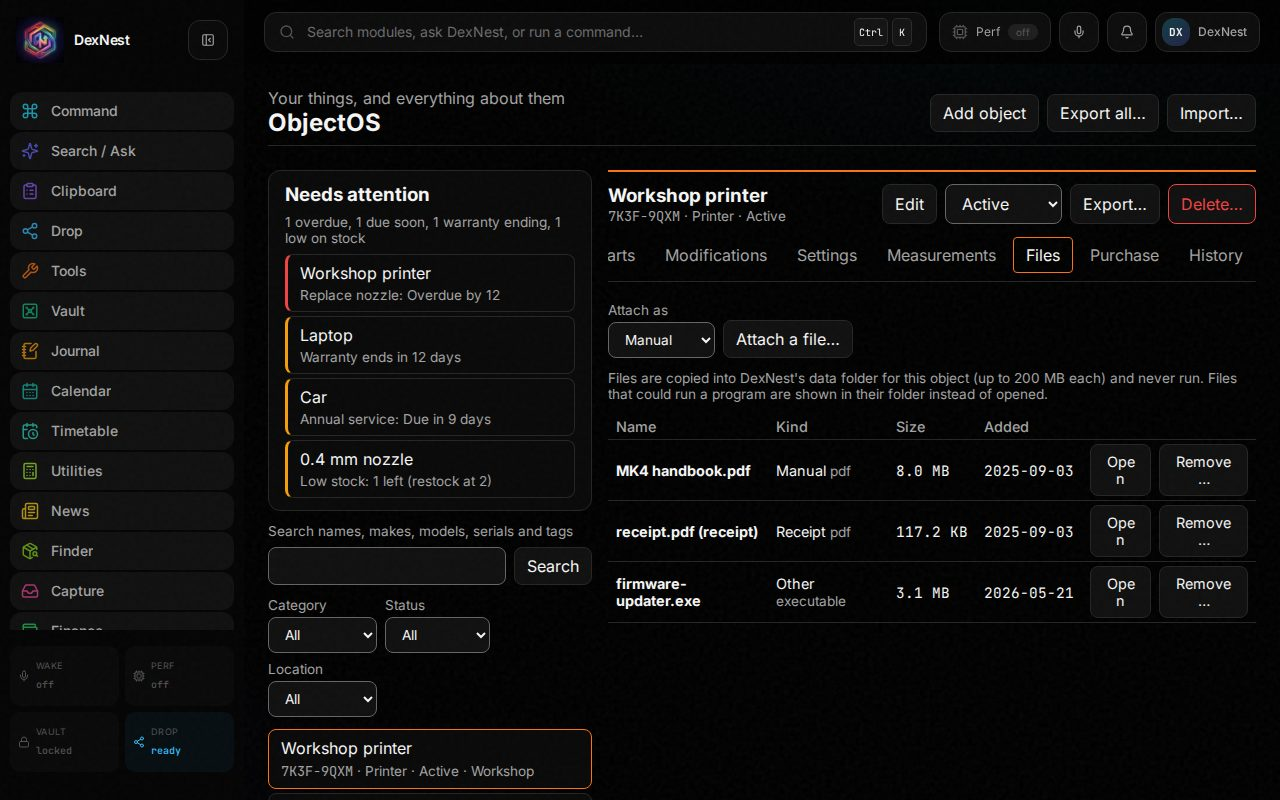
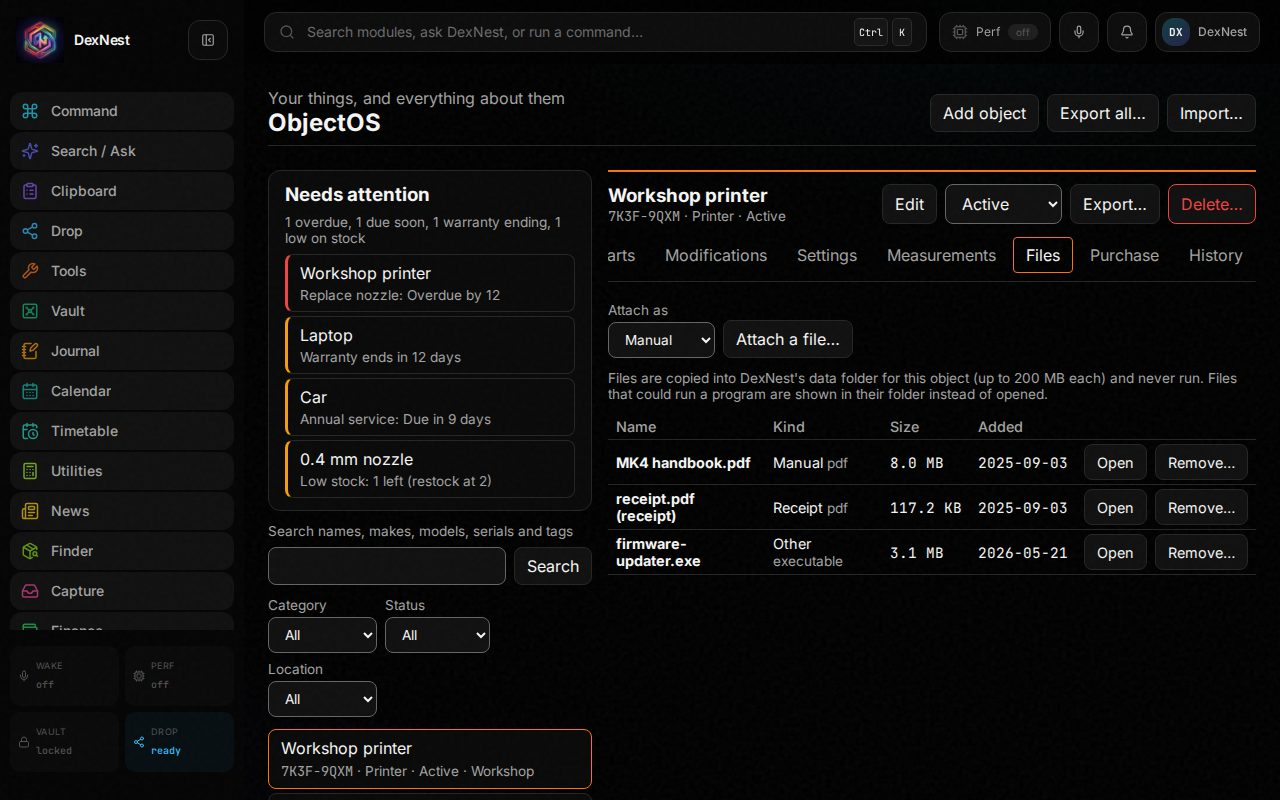
UI audit: record the fixes per branch and what is still open
Claude-Session: https://claude.ai/code/session_01JwfYoPbB23335zr2t8rkt3

Changed region(s): [[0.4688, 0.5312, 0.9688, 0.7812]]

diff --git a/docs/ui-audit/REPORT.md b/docs/ui-audit/REPORT.md
@@ -1,31 +1,81 @@
 # DexNest UI audit - new module views
 
-> **Update - fixed so far** (branch `cloud/ui-fixes`, based on `main`, commit
-> `548f485`; merged into this branch for the screenshots in
-> `screenshots/after-fixes/`):
-> - **X1 sidebar accent** - tints are built with `color-mix()` (`accentTint()`
->   in `lib/moduleMeta.ts`) for the sidebar and the three other module-accent
->   tints (pinned actions, pins, Deck catalogue). Every new module's active
->   entry now shows its tint, border and glow:
->   `after-fixes/sidebar-object-1280x800.jpg` (before:
->   `sidebar-object-1280x800.jpg`), and the same for ghost, rpg and skills.
-> - **X7 checkbox width** - the global rule now applies to
->   `input:where(:not([type="checkbox"], [type="radio"]))`; specificity is
->   unchanged, so classes still win. Reality RPG's quest form:
->   `after-fixes/rpg-tab-quests-1280x800.jpg` (before:
->   `rpg-tab-quests-1280x800.jpg`).
-> - **No change to existing views**: Command, Tools, Calendar's sidebar entry
->   and four Settings sections (89 existing checkboxes live in Settings and
->   elsewhere) were shot before and after; no pixel differs by more than 11
->   of 255 levels (JPEG noise and the 7% vs 7.06% tint rounding). After
->   shots: `after-fixes/existing-*`.
-> - Tests: `apps/desktop/test/shellStyle.test.mjs` (both mutations - a hex
->   suffix back in the sidebar, checkboxes back in the global rule - fail it);
->   desktop 168 pass on `main` + the fix.
+> **Update - fixed so far.** Every fix is on its own branch, merged into this
+> one for the screenshots in `screenshots/after-fixes/` (same names as the
+> "before" shots in `screenshots/`). Merged tree: typecheck clean, desktop
+> tests 328 pass.
+>
+> **App-wide** (`cloud/ui-fixes`, based on `main`; `548f485`, `30c3bee`):
+> - **X1 sidebar accent** - tints built with `color-mix()` (`accentTint()` in
+>   `lib/moduleMeta.ts`) for the sidebar, pinned actions, pins and the Deck
+>   catalogue. `after-fixes/sidebar-object-*` (and ghost, rpg, skills).
+> - **X7 checkbox width** - the global input rule skips checkboxes and radios
+>   (`:where()`, so specificity is unchanged). `after-fixes/rpg-tab-quests-*`.
+> - **X3 fonts** - Inter and JetBrains Mono (variable woff2, latin and
+>   latin-ext, OFL licences alongside) ship in `packages/shared-ui/fonts/`,
+>   declared in `shared-ui/src/fonts.css` and loaded before `tokens.css`. Local
+>   files only: no CDN, CSP unchanged. Every after shot renders in Inter.
+> - **X4 view error boundary** - `components/ViewErrorBoundary.tsx` wraps the
+>   active view, keyed by view, so switching views resets it. The sidebar stays;
+>   the view shows "<View> stopped working", the message, "Try again" and "Go
+>   to Command". Errors go to the local console only.
+>   `after-fixes/existing-autopilot-*` (before: a black window).
+> - **X9 control outlines and focus** - new tokens `--border-strong`
+>   (`#666666`, 3.45:1 on surface) for inputs, selects and textareas, and
+>   `--focus-outline` (solid accent) replacing the 2.3:1 `--focus-ring`
+>   outlines in `styles.css`.
+> - Tests: `test/shellStyle.test.mjs` (6), `test/viewErrorBoundary.test.mjs`
+>   (2). Existing views were re-shot (`after-fixes/existing-*`); only the font
+>   and outline changes show.
+>
+> **ObjectOS** (`cloud/object-os`; `e3accaf`, `46e6674`):
+> - "Needs attention" shows the 5 most urgent, then "Show all N"
+>   (`after-fixes/object-large-*`).
+> - Status is an `aria-label`led select, so the header buttons keep one height;
+>   the nine tabs stay on one line and scroll sideways.
+> - Delete confirmation is a modal (focus trapped, Escape, focus returned to
+>   the button that opened it) - `after-fixes/object-confirm-delete-*`.
+> - Tables: actions side by side and vertically centred; dates, sizes and
+>   button labels never break (`after-fixes/object-tab-files-*`).
+> - Empty state has "Add your first object" and "Import an export..."; the
+>   retry button is normal width; Name is marked "(required)".
+>
+> **GhostOS** (`cloud/ghost-os`; `697f19d`):
+> - Links are `--text` with an accent underline (no 4.4:1 accent text).
+> - Connection types read "related to", "worked on".
+> - Edit and Forget sit in the detail header.
+> - The type filter is one row of `aria-pressed` chips; counts are shown.
+> - Only the clicked timeline row is selected; the entry's other rows get a
+>   subtle marker.
+> - Empty state has "Add an entry" and "Open Sources"; normal-width retry.
+>
+> **Reality RPG** (`cloud/reality-rpg`; `b45361e`):
+> - Deleting a rule and abandoning a quest ask first (modal confirm).
+> - Stats are a grid of cards with a bar relative to the top stat.
+> - History rows lead with the rule name; the event source is small print.
+> - Rules read as a sentence ("+5 Craft each time, at most 20 a day") with ids
+>   as technical meta.
+> - Refresh is hidden while off; solid focus outline; normal-width retry.
+>
+> **Skill Constellation** (`claude/admiring-babbage-kbw2ew`; `376fda3`):
+> - At most 15 labels (strongest first) plus the hovered, focused or selected
+>   star - `after-fixes/skills-large-*`. Hidden stars say ", hidden" in their
+>   accessible name.
+> - Detail stats one per row, values unbroken; "1 repository".
+> - "Build once" while off; solid focus outline; normal-width retry.
+>
+> **Still open** (needs the shared kit, step 5 below): X2 two visual
+> generations, X5 tab styles, X6 skeleton loading and shared state layouts, X8
+> header spacing, X10 custom selects and date inputs; category marks and a list
+> view for Skill Constellation; ObjectOS maintenance layout and facts grid;
+> GhostOS per-row action column; the coverage gaps (step 7) and the DI and
+> Standup views (step 8). Fonts and outlines need a Windows check in the real
+> Electron window.
 
 Branch `cloud/ui-audit` = `main` + Skill Constellation (`claude/admiring-babbage-kbw2ew`)
 + Reality RPG (`cloud/reality-rpg`) + GhostOS (`cloud/ghost-os`) + ObjectOS
-(`cloud/object-os`). **Report only: no module code was changed.**
+(`cloud/object-os`). The audit itself changed no module code; the fixes above
+were made afterwards on their own branches.
 
 ## How this was done
 
@@ -70,6 +120,11 @@ Branch `cloud/ui-audit` = `main` + Skill Constellation (`claude/admiring-babbage
 | Reality RPG | Needs work | Needs work | Needs work | Needs work |
 | GhostOS | Needs work | Needs work | Needs work | Good |
 | ObjectOS | Needs work | Needs work | Good | Needs work |
+
+After the fixes: Accessibility is Good for all four (solid focus outlines,
+3:1 control outlines, modal confirms, readable links, culled labels). Polish
+moves to Good-with-gaps (see "Still open" above). Consistency stays Needs work
+until the shared kit lands, and Coverage is unchanged (no features were added).
 
 All four follow the rules (tokens only, Inter/JetBrains Mono through
 `--font-ui`/`--font-tech`, dark theme, labelled controls, loading/empty/error
@@ -269,18 +324,19 @@ token-only set would replace both:
 
 1. ~~**Sidebar active state** (X1)~~ - done, `cloud/ui-fixes`.
 2. ~~**Global checkbox width** (X7)~~ - done, `cloud/ui-fixes`.
-3. **Bundle the fonts** (X3) and **add the view error boundary** (X4) - both
-   app-wide, both small.
-4. **Token fixes**: `--border-strong`, a readable accent-text token, a solid
-   focus outline (X9; GhostOS links; Skill Constellation and Reality RPG
-   focus).
+3. ~~**Bundle the fonts** (X3) and **add the view error boundary** (X4)~~ -
+   done, `cloud/ui-fixes`.
+4. ~~**Token fixes**: `--border-strong`, a solid focus outline (X9; Skill
+   Constellation and Reality RPG focus); GhostOS links~~ - done (GhostOS
+   links are underlined `--text`, so no accent-text token was needed).
 5. **Build the shared set** in `packages/shared-ui` (token-only), starting with
    `PageHeader`, `Card`/`SectionTitle`, `Button`, `Tabs`, `ConfirmDialog` and
    the three states.
-6. **Move the four new views onto it** (X2, X5, X6, X8), fixing per module as
-   they move: ObjectOS's attention cap, header and tabs; Skill Constellation's
-   labels and list view; Reality RPG's confirmations and stats layout;
-   GhostOS's relation labels and detail actions.
+6. **Move the four new views onto it** (X2, X5, X6, X8). The per-module
+   fixes are done in place (see the update at the top); the module confirm
+   dialogs and tabs can then become the shared `ConfirmDialog` and `Tabs`.
+   Still to do per module: Skill Constellation's category marks and list
+   view; ObjectOS's maintenance layout and facts grid.
 7. **Coverage gaps**: Reality RPG custom achievements (create/delete); ObjectOS
    part editing and a Move control; interval settings for Skill
    Constellation, Reality RPG and GhostOS.
